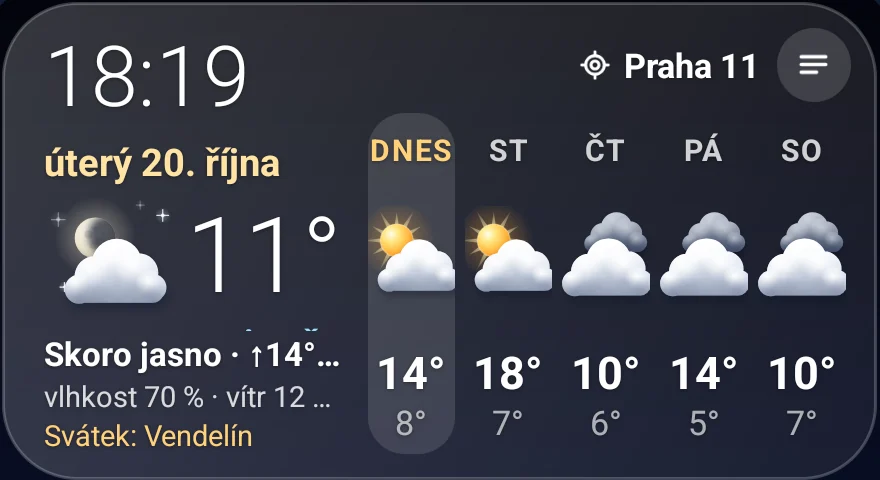
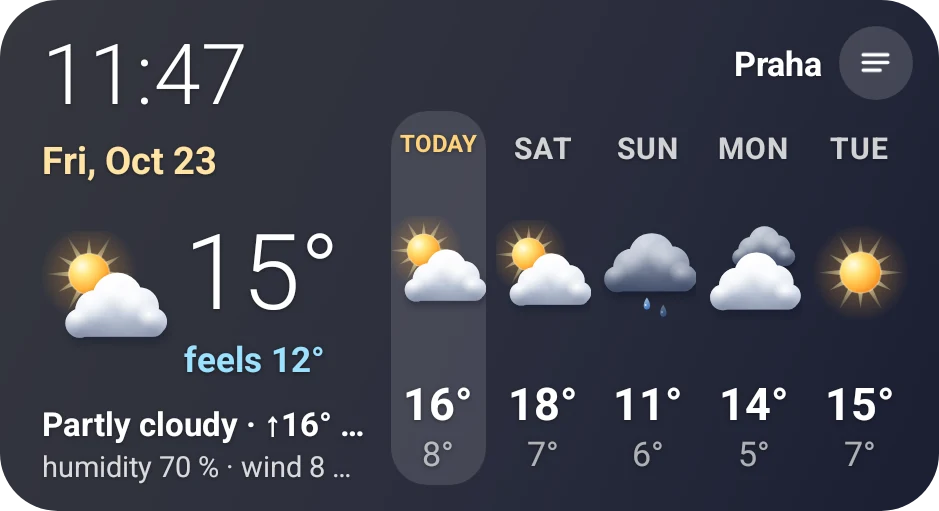
Tomelo Widgets na webu: obrázky widgetů anglicky jako výchozí, česká stránka s českými obrázky

diff --git a/docs/cs/widgets/index.html b/docs/cs/widgets/index.html
@@ -82,7 +82,7 @@
           <li><svg viewBox="0 0 24 24" fill="none" stroke="currentColor" stroke-width="2.4" stroke-linecap="round" stroke-linejoin="round" aria-hidden="true"><path d="M5 12.5l4.5 4.5L19 7.5"/></svg>Android &middot; 10 jazyků</li>
         </ul>
       </div>
-      <img class="widget-shot" src="/assets/widgets/weather.webp" alt="Widget Velká předpověď: 18:19, úterý 20. října, Praha, 11 stupňů a skoro jasno, vlhkost a vítr a pět dní s nejvyšší a nejnižší teplotou." width="880" height="480" fetchpriority="high">
+      <img class="widget-shot" src="/assets/widgets/cs/weather.webp" alt="Widget Velká předpověď: čas a datum, dnešní počasí s pocitovou teplotou a pět dní s nejvyššími a nejnižšími teplotami." width="880" height="480" fetchpriority="high">
       </div>
     </div>
   </div>
@@ -93,43 +93,43 @@
       <p class="section-lead">Jedna aplikace, mnoho velikostí. Samotná aplikace slouží jen k nastavení: místa, barvy a formáty. Widgety bydlí na ploše.</p>
       <div class="wfam">
         <div class="card">
-          <img class="widget-shot" src="/assets/widgets/sky.webp" alt="Widget Nebe: 17:24 na večerní obloze, slunce nízko nad obzorem a západ v 18:07, za 43 minut." width="939" height="448" loading="lazy" decoding="async">
+          <img class="widget-shot" src="/assets/widgets/cs/sky.webp" alt="Widget Nebe: čas na denní obloze se sluncem na jeho dráze a časem západu slunce." width="939" height="448" loading="lazy" decoding="async">
           <h3>Nebe</h3>
           <p class="sizes">1 widget &middot; 4&times;2</p>
           <p>Čas na živém nebi, které se mění během dne. Slunce putuje po své dráze, s časem východu a západu. V noci hvězdy.</p>
         </div>
         <div class="card">
-          <img class="widget-shot" src="/assets/widgets/weather-hours.webp" alt="Widget Velká předpověď přepnutý na hodiny: teplota a počasí teď a každé tři hodiny." width="939" height="511" loading="lazy" decoding="async">
+          <img class="widget-shot" src="/assets/widgets/cs/weather-hours.webp" alt="Widget Velká předpověď přepnutý na hodiny: teplota a počasí teď a každé tři hodiny." width="939" height="511" loading="lazy" decoding="async">
           <h3>Počasí</h3>
           <p class="sizes">3 widgety &middot; 4&times;2, 2&times;2, 4&times;1</p>
           <p>Teplota, pocitová teplota, vlhkost a vítr a pět dní dopředu. Klepnutím na Dnes uvidíte den po hodinách. Klepnutím jinam přepnete na další město.</p>
         </div>
         <div class="card">
-          <img class="widget-shot" src="/assets/widgets/calendar.webp" alt="Widget Měsíční kalendář: říjen se zvýrazněným dneškem, barevnými tečkami u událostí, čísly týdnů a programem vybraného dne." width="720" height="757" loading="lazy" decoding="async">
+          <img class="widget-shot" src="/assets/widgets/cs/calendar.webp" alt="Widget Měsíční kalendář: říjen se zvýrazněným dneškem, barevnými tečkami u událostí, čísly týdnů a programem vybraného dne." width="720" height="757" loading="lazy" decoding="async">
           <h3>Kalendář</h3>
           <p class="sizes">8 widgetů &middot; od 2&times;2 do 4&times;4</p>
           <p>Události z kalendáře v telefonu a u každé počasí. Odpočet do další události, státní svátky, jmeniny, úplněk a nov a čísla týdnů. Klepnutím na den uvidíte jeho program.</p>
         </div>
         <div class="card">
-          <img class="widget-shot" src="/assets/widgets/world-clocks.webp" alt="Widget Světové časy: Praha, New York, Dubaj a Tokio vedle sebe, každé město se svým časem a denní nebo noční oblohou." width="939" height="448" loading="lazy" decoding="async">
+          <img class="widget-shot" src="/assets/widgets/cs/world-clocks.webp" alt="Widget Světové časy: Praha, New York, Dubaj a Tokio vedle sebe, každé město se svým časem a denní nebo noční oblohou." width="939" height="448" loading="lazy" decoding="async">
           <h3>Světové časy</h3>
           <p class="sizes">3 widgety &middot; 4&times;2, 2&times;2, 4&times;1</p>
           <p>Až čtyři města. Každé má svůj čas a svou oblohu, takže hned vidíte, kde je den a kde noc.</p>
         </div>
         <div class="card">
-          <img class="widget-shot" src="/assets/widgets/moon.webp" alt="Widget Fáze Měsíce: dorůstající Měsíc, osvětleno 90 %, úplněk za 3 dny, východ 14:35 a západ 2:06 a fáze na celý týden." width="939" height="448" loading="lazy" decoding="async">
+          <img class="widget-shot" src="/assets/widgets/cs/moon.webp" alt="Widget Fáze Měsíce: dorůstající Měsíc, osvětleno 90 %, úplněk za 3 dny, východ 14:35 a západ 2:06 a fáze na celý týden." width="939" height="448" loading="lazy" decoding="async">
           <h3>Fáze Měsíce</h3>
           <p class="sizes">2 widgety &middot; 4&times;2, 2&times;2</p>
           <p>Skutečná fáze Měsíce a kolik z něj je osvětleno. Východ a západ Měsíce a fáze na příštích sedm dní.</p>
         </div>
         <div class="card">
-          <div class="pair"><img class="widget-shot" src="/assets/widgets/pilot.webp" alt="Widget Pilot: letecký ciferník s ukazateli kroků a baterie a s datem." width="448" height="448" loading="lazy" decoding="async"><img class="widget-shot" src="/assets/widgets/aurora.webp" alt="Widget Polární záře: minutová ručička táhne zelenofialový světelný ohon." width="448" height="448" loading="lazy" decoding="async"></div>
+          <div class="pair"><img class="widget-shot" src="/assets/widgets/cs/pilot.webp" alt="Widget Pilot: letecký ciferník s ukazateli kroků a baterie a s datem." width="448" height="448" loading="lazy" decoding="async"><img class="widget-shot" src="/assets/widgets/cs/aurora.webp" alt="Widget Polární záře: minutová ručička táhne zelenofialový světelný ohon." width="448" height="448" loading="lazy" decoding="async"></div>
           <h3>Hodiny</h3>
           <p class="sizes">11 widgetů &middot; 2&times;2</p>
           <p>Jedenáct ciferníků: letecký Pilot s kroky a baterií, Polární záře se světelným ohonem, Tekuté sklo, sluneční hodiny Stín, Den dokola s 24h ciferníkem, Tečky, Slova, Hvězdné hodiny se skutečnou noční oblohou, hodinky, orbita a přesýpací hodiny.</p>
         </div>
         <div class="card">
-          <img class="widget-shot" src="/assets/widgets/steps-battery.webp" alt="Widget Na vrchol: cesta na horu, 6 840 z 8 000 kroků a do vrcholu 1 160 kroků. Vedle widget Baterie jako ručkový přístroj." width="1415" height="448" loading="lazy" decoding="async">
+          <img class="widget-shot" src="/assets/widgets/cs/steps-battery.webp" alt="Widget Na vrchol: cesta na horu, 6 840 z 8 000 kroků a do vrcholu 1 160 kroků. Vedle widget Baterie jako ručkový přístroj." width="1415" height="448" loading="lazy" decoding="async">
           <h3>Kroky a baterie</h3>
           <p class="sizes">5 widgetů &middot; 4&times;2, 2&times;2</p>
           <p>Cílová páska s panáčkem na cestě k cíli, Na vrchol s cestou na horu a Týden v tečkách, kde každá tečka je 1 000 kroků. K tomu kroky jako ručkový přístroj a stav baterie.</p>

diff --git a/docs/uk/widgets/index.html b/docs/uk/widgets/index.html
@@ -82,7 +82,7 @@
           <li><svg viewBox="0 0 24 24" fill="none" stroke="currentColor" stroke-width="2.4" stroke-linecap="round" stroke-linejoin="round" aria-hidden="true"><path d="M5 12.5l4.5 4.5L19 7.5"/></svg>Android &middot; 10 мов</li>
         </ul>
       </div>
-      <img class="widget-shot" src="/assets/widgets/weather.webp" alt="Віджет «Великий прогноз»: 18:19, вівторок, 20 жовтня, Прага, 11 градусів і майже ясно, вологість і вітер, а також п’ять днів із найвищою та найнижчою температурою." width="880" height="480" fetchpriority="high">
+      <img class="widget-shot" src="/assets/widgets/weather.webp" alt="Віджет «Великий прогноз»: час і дата, сьогоднішня погода з відчуттям температури й п’ять днів з найвищою та найнижчою температурою." width="880" height="480" fetchpriority="high">
       </div>
     </div>
   </div>
@@ -91,10 +91,10 @@
     <div class="wrap">
       <h2 class="section-title">33 віджети в 7 родинах</h2>
       <p class="section-lead">Один застосунок, багато розмірів. Сам застосунок потрібен лише для налаштувань: місця, кольори та формати. Віджети живуть на головному екрані.</p>
-      <p class="shots-note">На зображеннях віджети чеською мовою. На вашому телефоні вони відображаються мовою, яку ви оберете.</p>
+      <p class="shots-note">На зображеннях віджети англійською мовою. На вашому телефоні вони відображаються мовою, яку ви оберете.</p>
       <div class="wfam">
         <div class="card">
-          <img class="widget-shot" src="/assets/widgets/sky.webp" alt="Віджет «Небо»: 17:24 на вечірньому небі, сонце низько над обрієм і захід о 18:07, за 43 хвилини." width="939" height="448" loading="lazy" decoding="async">
+          <img class="widget-shot" src="/assets/widgets/sky.webp" alt="Віджет «Небо»: час на денному небі із сонцем на його шляху та часом заходу сонця." width="939" height="448" loading="lazy" decoding="async">
           <h3>Небо</h3>
           <p class="sizes">1 віджет &middot; 4&times;2</p>
           <p>Час на живому небі, яке змінюється протягом дня. Сонце рухається своїм шляхом, з часом сходу й заходу. Уночі зорі.</p>

diff --git a/docs/fr/widgets/index.html b/docs/fr/widgets/index.html
@@ -82,7 +82,7 @@
           <li><svg viewBox="0 0 24 24" fill="none" stroke="currentColor" stroke-width="2.4" stroke-linecap="round" stroke-linejoin="round" aria-hidden="true"><path d="M5 12.5l4.5 4.5L19 7.5"/></svg>Android &middot; 10 langues</li>
         </ul>
       </div>
-      <img class="widget-shot" src="/assets/widgets/weather.webp" alt="Widget Grande prévision : 18 h 19, mardi 20 octobre, à Prague, 11 degrés et ciel presque dégagé, humidité et vent, et cinq jours avec les maximales et minimales." width="880" height="480" fetchpriority="high">
+      <img class="widget-shot" src="/assets/widgets/weather.webp" alt="Widget Grande prévision : l’heure et la date, la météo du jour avec la température ressentie et cinq jours de maximales et minimales." width="880" height="480" fetchpriority="high">
       </div>
     </div>
   </div>
@@ -91,10 +91,10 @@
     <div class="wrap">
       <h2 class="section-title">33 widgets en 7 familles</h2>
       <p class="section-lead">Une application, plusieurs tailles. L’application elle-même sert seulement aux réglages : vos lieux, vos couleurs et vos formats. Les widgets vivent sur votre écran d’accueil.</p>
-      <p class="shots-note">Les images montrent les widgets en tchèque. Sur votre téléphone, ils s’affichent dans la langue que vous choisissez.</p>
+      <p class="shots-note">Les images montrent les widgets en anglais. Sur votre téléphone, ils s’affichent dans la langue que vous choisissez.</p>
       <div class="wfam">
         <div class="card">
-          <img class="widget-shot" src="/assets/widgets/sky.webp" alt="Widget Ciel : 17 h 24 sur un ciel du soir, le soleil bas au-dessus de l’horizon et le coucher à 18 h 07, dans 43 minutes." width="939" height="448" loading="lazy" decoding="async">
+          <img class="widget-shot" src="/assets/widgets/sky.webp" alt="Widget Ciel : l’heure sur un ciel de jour avec le soleil sur sa course et l’heure du coucher du soleil." width="939" height="448" loading="lazy" decoding="async">
           <h3>Ciel</h3>
           <p class="sizes">1 widget &middot; 4&times;2</p>
           <p>L’heure sur un ciel vivant qui change au fil de la journée. Le soleil suit sa course, avec l’heure du lever et du coucher. La nuit, des étoiles.</p>

diff --git a/docs/de/widgets/index.html b/docs/de/widgets/index.html
@@ -82,7 +82,7 @@
           <li><svg viewBox="0 0 24 24" fill="none" stroke="currentColor" stroke-width="2.4" stroke-linecap="round" stroke-linejoin="round" aria-hidden="true"><path d="M5 12.5l4.5 4.5L19 7.5"/></svg>Android &middot; 10 Sprachen</li>
         </ul>
       </div>
-      <img class="widget-shot" src="/assets/widgets/weather.webp" alt="Widget Große Vorhersage: 18:19 Uhr am Dienstag, 20. Oktober, in Prag, 11 Grad und fast klar, Luftfeuchte und Wind sowie fünf Tage mit Höchst- und Tiefstwerten." width="880" height="480" fetchpriority="high">
+      <img class="widget-shot" src="/assets/widgets/weather.webp" alt="Widget Große Vorhersage: Uhrzeit und Datum, das heutige Wetter mit gefühlter Temperatur und fünf Tage mit Höchst- und Tiefstwerten." width="880" height="480" fetchpriority="high">
       </div>
     </div>
   </div>
@@ -91,10 +91,10 @@
     <div class="wrap">
       <h2 class="section-title">33 Widgets in 7 Familien</h2>
       <p class="section-lead">Eine App, viele Größen. Die App selbst dient nur den Einstellungen: Orte, Farben und Formate. Die Widgets wohnen auf dem Startbildschirm.</p>
-      <p class="shots-note">Die Bilder zeigen die Widgets auf Tschechisch. Auf Ihrem Telefon erscheinen sie in der Sprache, die Sie wählen.</p>
+      <p class="shots-note">Die Bilder zeigen die Widgets auf Englisch. Auf Ihrem Telefon erscheinen sie in der Sprache, die Sie wählen.</p>
       <div class="wfam">
         <div class="card">
-          <img class="widget-shot" src="/assets/widgets/sky.webp" alt="Widget Himmel: 17:24 Uhr an einem Abendhimmel, die Sonne tief über dem Horizont, Sonnenuntergang um 18:07 Uhr, in 43 Minuten." width="939" height="448" loading="lazy" decoding="async">
+          <img class="widget-shot" src="/assets/widgets/sky.webp" alt="Widget Himmel: die Uhrzeit an einem Taghimmel mit der Sonne auf ihrer Bahn und der Zeit des Sonnenuntergangs." width="939" height="448" loading="lazy" decoding="async">
           <h3>Himmel</h3>
           <p class="sizes">1 Widget &middot; 4&times;2</p>
           <p>Die Uhrzeit auf einem lebendigen Himmel, der sich im Lauf des Tages ändert. Die Sonne wandert auf ihrer Bahn, mit Sonnenaufgang und Sonnenuntergang. Nachts Sterne.</p>

diff --git a/docs/nl/widgets/index.html b/docs/nl/widgets/index.html
@@ -82,7 +82,7 @@
           <li><svg viewBox="0 0 24 24" fill="none" stroke="currentColor" stroke-width="2.4" stroke-linecap="round" stroke-linejoin="round" aria-hidden="true"><path d="M5 12.5l4.5 4.5L19 7.5"/></svg>Android &middot; 10 talen</li>
         </ul>
       </div>
-      <img class="widget-shot" src="/assets/widgets/weather.webp" alt="Widget Grote verwachting: 18:19 op dinsdag 20 oktober in Praag, 11 graden en bijna helder, luchtvochtigheid en wind, en vijf dagen met hoogste en laagste temperatuur." width="880" height="480" fetchpriority="high">
+      <img class="widget-shot" src="/assets/widgets/weather.webp" alt="Widget Grote voorspelling: de tijd en datum, het weer van vandaag met de gevoelstemperatuur en vijf dagen met hoogste en laagste temperaturen." width="880" height="480" fetchpriority="high">
       </div>
     </div>
   </div>
@@ -91,10 +91,10 @@
     <div class="wrap">
       <h2 class="section-title">33 widgets in 7 families</h2>
       <p class="section-lead">Eén app, veel formaten. De app zelf is alleen voor de instellingen: uw plaatsen, kleuren en notaties. De widgets wonen op uw startscherm.</p>
-      <p class="shots-note">De afbeeldingen tonen de widgets in het Tsjechisch. Op uw telefoon gebruiken ze de taal die u kiest.</p>
+      <p class="shots-note">De afbeeldingen tonen de widgets in het Engels. Op uw telefoon gebruiken ze de taal die u kiest.</p>
       <div class="wfam">
         <div class="card">
-          <img class="widget-shot" src="/assets/widgets/sky.webp" alt="Widget Hemel: 17:24 op een avondhemel, de zon laag boven de horizon en zonsondergang om 18:07, over 43 minuten." width="939" height="448" loading="lazy" decoding="async">
+          <img class="widget-shot" src="/assets/widgets/sky.webp" alt="Widget Hemel: de tijd op een daghemel met de zon op haar baan en de tijd van zonsondergang." width="939" height="448" loading="lazy" decoding="async">
           <h3>Hemel</h3>
           <p class="sizes">1 widget &middot; 4&times;2</p>
           <p>De tijd op een levende hemel die door de dag heen verandert. De zon volgt haar baan, met de tijden van zonsopkomst en zonsondergang. 's Nachts sterren.</p>

diff --git a/docs/es/widgets/index.html b/docs/es/widgets/index.html
@@ -82,7 +82,7 @@
           <li><svg viewBox="0 0 24 24" fill="none" stroke="currentColor" stroke-width="2.4" stroke-linecap="round" stroke-linejoin="round" aria-hidden="true"><path d="M5 12.5l4.5 4.5L19 7.5"/></svg>Android &middot; 10 idiomas</li>
         </ul>
       </div>
-      <img class="widget-shot" src="/assets/widgets/weather.webp" alt="Widget Gran previsión: las 18:19 del martes 20 de octubre en Praga, 11 grados y casi despejado, humedad y viento, y cinco días con máximas y mínimas." width="880" height="480" fetchpriority="high">
+      <img class="widget-shot" src="/assets/widgets/weather.webp" alt="Widget Pronóstico grande: la hora y la fecha, el tiempo de hoy con la sensación térmica y cinco días de máximas y mínimas." width="880" height="480" fetchpriority="high">
       </div>
     </div>
   </div>
@@ -91,10 +91,10 @@
     <div class="wrap">
       <h2 class="section-title">33 widgets en 7 familias</h2>
       <p class="section-lead">Una app, muchos tamaños. La app en sí solo sirve para los ajustes: lugares, colores y formatos. Los widgets viven en su pantalla de inicio.</p>
-      <p class="shots-note">Las imágenes muestran los widgets en checo. En su teléfono aparecen en el idioma que usted elija.</p>
+      <p class="shots-note">Las imágenes muestran los widgets en inglés. En su teléfono aparecen en el idioma que usted elija.</p>
       <div class="wfam">
         <div class="card">
-          <img class="widget-shot" src="/assets/widgets/sky.webp" alt="Widget Cielo: las 17:24 sobre un cielo de tarde, el sol bajo sobre el horizonte y la puesta a las 18:07, dentro de 43 minutos." width="939" height="448" loading="lazy" decoding="async">
+          <img class="widget-shot" src="/assets/widgets/sky.webp" alt="Widget Cielo: la hora en un cielo de día con el sol en su recorrido y la hora de la puesta de sol." width="939" height="448" loading="lazy" decoding="async">
           <h3>Cielo</h3>
           <p class="sizes">1 widget &middot; 4&times;2</p>
           <p>La hora sobre un cielo vivo que cambia a lo largo del día. El sol recorre su camino, con la hora de salida y de puesta. De noche, estrellas.</p>

diff --git a/docs/pl/widgets/index.html b/docs/pl/widgets/index.html
@@ -82,7 +82,7 @@
           <li><svg viewBox="0 0 24 24" fill="none" stroke="currentColor" stroke-width="2.4" stroke-linecap="round" stroke-linejoin="round" aria-hidden="true"><path d="M5 12.5l4.5 4.5L19 7.5"/></svg>Android &middot; 10 języków</li>
         </ul>
       </div>
-      <img class="widget-shot" src="/assets/widgets/weather.webp" alt="Widżet Duża prognoza: 18:19, wtorek 20 października, Praga, 11 stopni i prawie bezchmurnie, wilgotność i wiatr oraz pięć dni z temperaturą najwyższą i najniższą." width="880" height="480" fetchpriority="high">
+      <img class="widget-shot" src="/assets/widgets/weather.webp" alt="Widżet Duża prognoza: godzina i data, dzisiejsza pogoda z temperaturą odczuwalną i pięć dni z najwyższą i najniższą temperaturą." width="880" height="480" fetchpriority="high">
       </div>
     </div>
   </div>
@@ -91,10 +91,10 @@
     <div class="wrap">
       <h2 class="section-title">33 widżety w 7 rodzinach</h2>
       <p class="section-lead">Jedna aplikacja, wiele rozmiarów. Sama aplikacja służy tylko do ustawień: miejsca, kolory i formaty. Widżety mieszkają na ekranie głównym.</p>
-      <p class="shots-note">Na obrazkach widżety są po czesku. W telefonie pokazują się w wybranym języku.</p>
+      <p class="shots-note">Na obrazkach widżety są po angielsku. W telefonie pokazują się w wybranym języku.</p>
       <div class="wfam">
         <div class="card">
-          <img class="widget-shot" src="/assets/widgets/sky.webp" alt="Widżet Niebo: 17:24 na wieczornym niebie, słońce nisko nad horyzontem i zachód o 18:07, za 43 minuty." width="939" height="448" loading="lazy" decoding="async">
+          <img class="widget-shot" src="/assets/widgets/sky.webp" alt="Widżet Niebo: godzina na dziennym niebie ze słońcem na jego drodze i godziną zachodu słońca." width="939" height="448" loading="lazy" decoding="async">
           <h3>Niebo</h3>
           <p class="sizes">1 widżet &middot; 4&times;2</p>
           <p>Czas na żywym niebie, które zmienia się w ciągu dnia. Słońce wędruje po swojej drodze, z godziną wschodu i zachodu. W nocy gwiazdy.</p>

diff --git a/docs/it/widgets/index.html b/docs/it/widgets/index.html
@@ -82,7 +82,7 @@
           <li><svg viewBox="0 0 24 24" fill="none" stroke="currentColor" stroke-width="2.4" stroke-linecap="round" stroke-linejoin="round" aria-hidden="true"><path d="M5 12.5l4.5 4.5L19 7.5"/></svg>Android &middot; 10 lingue</li>
         </ul>
       </div>
-      <img class="widget-shot" src="/assets/widgets/weather.webp" alt="Widget Grande previsione: le 18:19 di martedì 20 ottobre a Praga, 11 gradi e quasi sereno, umidità e vento, e cinque giorni con massime e minime." width="880" height="480" fetchpriority="high">
+      <img class="widget-shot" src="/assets/widgets/weather.webp" alt="Widget Previsione grande: ora e data, il meteo di oggi con la temperatura percepita e cinque giorni di massime e minime." width="880" height="480" fetchpriority="high">
       </div>
     </div>
   </div>
@@ -91,10 +91,10 @@
     <div class="wrap">
       <h2 class="section-title">33 widget in 7 famiglie</h2>
       <p class="section-lead">Una sola app, tante dimensioni. L’app serve solo per le impostazioni: luoghi, colori e formati. I widget vivono sulla schermata Home.</p>
-      <p class="shots-note">Le immagini mostrano i widget in ceco. Sul vostro telefono usano la lingua che scegliete.</p>
+      <p class="shots-note">Le immagini mostrano i widget in inglese. Sul vostro telefono usano la lingua che scegliete.</p>
       <div class="wfam">
         <div class="card">
-          <img class="widget-shot" src="/assets/widgets/sky.webp" alt="Widget Cielo: le 17:24 su un cielo serale, il sole basso sull’orizzonte e il tramonto alle 18:07, tra 43 minuti." width="939" height="448" loading="lazy" decoding="async">
+          <img class="widget-shot" src="/assets/widgets/sky.webp" alt="Widget Cielo: l’ora su un cielo di giorno con il sole sul suo percorso e l’ora del tramonto." width="939" height="448" loading="lazy" decoding="async">
           <h3>Cielo</h3>
           <p class="sizes">1 widget &middot; 4&times;2</p>
           <p>L’ora su un cielo vivo che cambia durante il giorno. Il sole segue il suo percorso, con l’ora dell’alba e del tramonto. Di notte, le stelle.</p>

diff --git a/docs/pt/widgets/index.html b/docs/pt/widgets/index.html
@@ -82,7 +82,7 @@
           <li><svg viewBox="0 0 24 24" fill="none" stroke="currentColor" stroke-width="2.4" stroke-linecap="round" stroke-linejoin="round" aria-hidden="true"><path d="M5 12.5l4.5 4.5L19 7.5"/></svg>Android &middot; 10 idiomas</li>
         </ul>
       </div>
-      <img class="widget-shot" src="/assets/widgets/weather.webp" alt="Widget Grande previsão: 18:19 de terça-feira, 20 de outubro, em Praga, 11 graus e quase limpo, humidade e vento, e cinco dias com máximas e mínimas." width="880" height="480" fetchpriority="high">
+      <img class="widget-shot" src="/assets/widgets/weather.webp" alt="Widget Previsão grande: a hora e a data, o tempo de hoje com a sensação térmica e cinco dias de máximas e mínimas." width="880" height="480" fetchpriority="high">
       </div>
     </div>
   </div>
@@ -91,10 +91,10 @@
     <div class="wrap">
       <h2 class="section-title">33 widgets em 7 famílias</h2>
       <p class="section-lead">Uma app, muitos tamanhos. A app serve apenas para as definições: locais, cores e formatos. Os widgets vivem no ecrã principal.</p>
-      <p class="shots-note">As imagens mostram os widgets em checo. No seu telefone, aparecem no idioma que escolher.</p>
+      <p class="shots-note">As imagens mostram os widgets em inglês. No seu telefone, aparecem no idioma que escolher.</p>
       <div class="wfam">
         <div class="card">
-          <img class="widget-shot" src="/assets/widgets/sky.webp" alt="Widget Céu: 17:24 num céu de fim de tarde, o sol baixo sobre o horizonte e o pôr do sol às 18:07, daqui a 43 minutos." width="939" height="448" loading="lazy" decoding="async">
+          <img class="widget-shot" src="/assets/widgets/sky.webp" alt="Widget Céu: a hora num céu de dia com o sol no seu percurso e a hora do pôr do sol." width="939" height="448" loading="lazy" decoding="async">
           <h3>Céu</h3>
           <p class="sizes">1 widget &middot; 4&times;2</p>
           <p>A hora sobre um céu vivo que muda ao longo do dia. O sol percorre o seu caminho, com a hora do nascer e do pôr do sol. À noite, estrelas.</p>

diff --git a/docs/widgets/index.html b/docs/widgets/index.html
@@ -81,7 +81,7 @@
           <li><svg viewBox="0 0 24 24" fill="none" stroke="currentColor" stroke-width="2.4" stroke-linecap="round" stroke-linejoin="round" aria-hidden="true"><path d="M5 12.5l4.5 4.5L19 7.5"/></svg>Android &middot; 10 languages</li>
         </ul>
       </div>
-      <img class="widget-shot" src="/assets/widgets/weather.webp" alt="Large forecast widget: 18:19 on Tuesday 20 October in Prague, 11 degrees and almost clear, humidity and wind, and five days of highs and lows." width="880" height="480" fetchpriority="high">
+      <img class="widget-shot" src="/assets/widgets/weather.webp" alt="Large forecast widget: the time and date, today's weather with the feels-like temperature, and five days of highs and lows." width="880" height="480" fetchpriority="high">
       </div>
     </div>
   </div>
@@ -90,10 +90,10 @@
     <div class="wrap">
       <h2 class="section-title">33 widgets in 7 families</h2>
       <p class="section-lead">One app, many sizes. The app itself is only for settings: your places, colours and formats. The widgets live on your home screen.</p>
-      <p class="shots-note">The pictures show the widgets in Czech. On your phone they use the language you choose.</p>
+      <p class="shots-note">The pictures show the widgets in English. On your phone they use the language you choose.</p>
       <div class="wfam">
         <div class="card">
-          <img class="widget-shot" src="/assets/widgets/sky.webp" alt="Sky widget: 17:24 on an evening sky, the sun low above the horizon and sunset at 18:07, in 43 minutes." width="939" height="448" loading="lazy" decoding="async">
+          <img class="widget-shot" src="/assets/widgets/sky.webp" alt="Sky widget: the time on a daytime sky with the sun on its path and the time of sunset." width="939" height="448" loading="lazy" decoding="async">
           <h3>Sky</h3>
           <p class="sizes">1 widget &middot; 4&times;2</p>
           <p>The time on a live sky that changes through the day. The sun moves along its path, with the times of sunrise and sunset. At night, stars.</p>

diff --git a/docs/cs/index.html b/docs/cs/index.html
@@ -121,7 +121,7 @@
         </div>
       </div>
       <div class="app-tile" id="tile-widgets">
-        <a class="tile-photo tile-widgets" href="/cs/widgets/" tabindex="-1" aria-hidden="true"><img class="widget-shot" src="/assets/widgets/weather.webp" alt="Widget Velká předpověď s časem, dnešním počasím a pěti dny dopředu." width="880" height="480" loading="lazy" decoding="async"><img class="widget-shot" src="/assets/widgets/world-clocks.webp" alt="Widget Světové časy se čtyřmi městy, každé se svým časem a oblohou." width="939" height="448" loading="lazy" decoding="async"></a>
+        <a class="tile-photo tile-widgets" href="/cs/widgets/" tabindex="-1" aria-hidden="true"><img class="widget-shot" src="/assets/widgets/cs/weather.webp" alt="Widget Velká předpověď s časem, dnešním počasím a pěti dny dopředu." width="880" height="480" loading="lazy" decoding="async"><img class="widget-shot" src="/assets/widgets/cs/world-clocks.webp" alt="Widget Světové časy se čtyřmi městy, každé se svým časem a oblohou." width="939" height="448" loading="lazy" decoding="async"></a>
         <div>
           <h3><a class="tile-title" href="/cs/widgets/">Tomelo Widgets</a></h3>
           <span class="tag">Android &middot; 10 jazyků</span>
